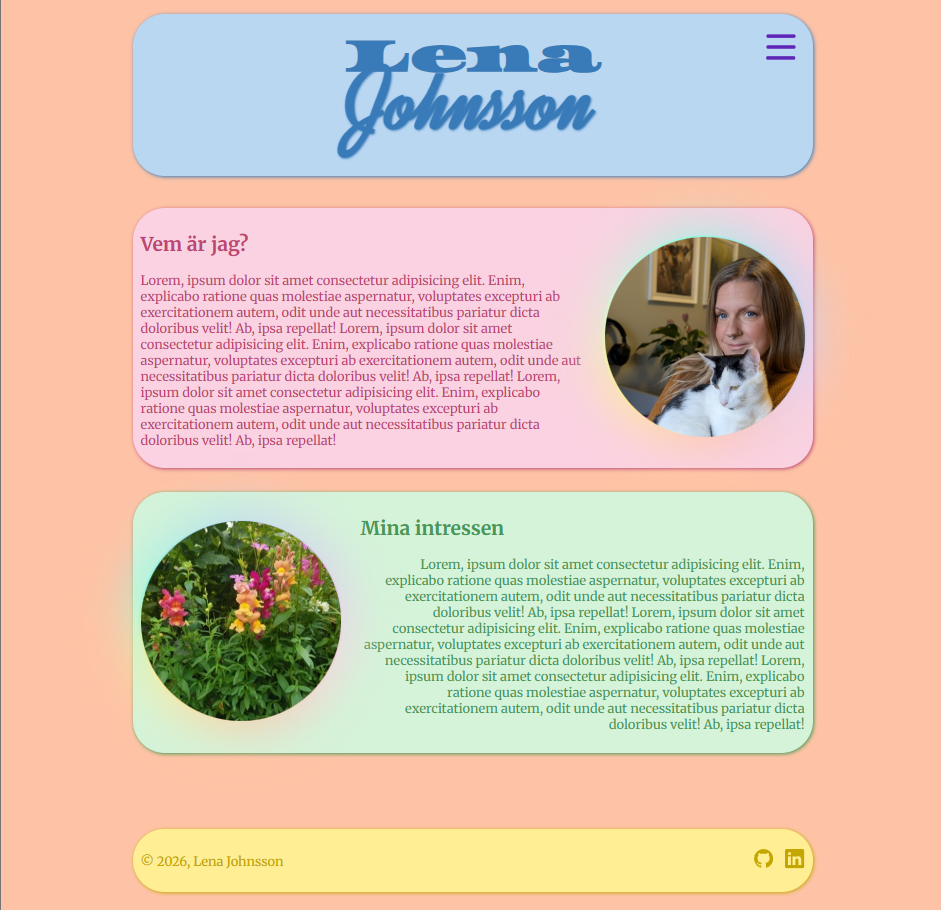
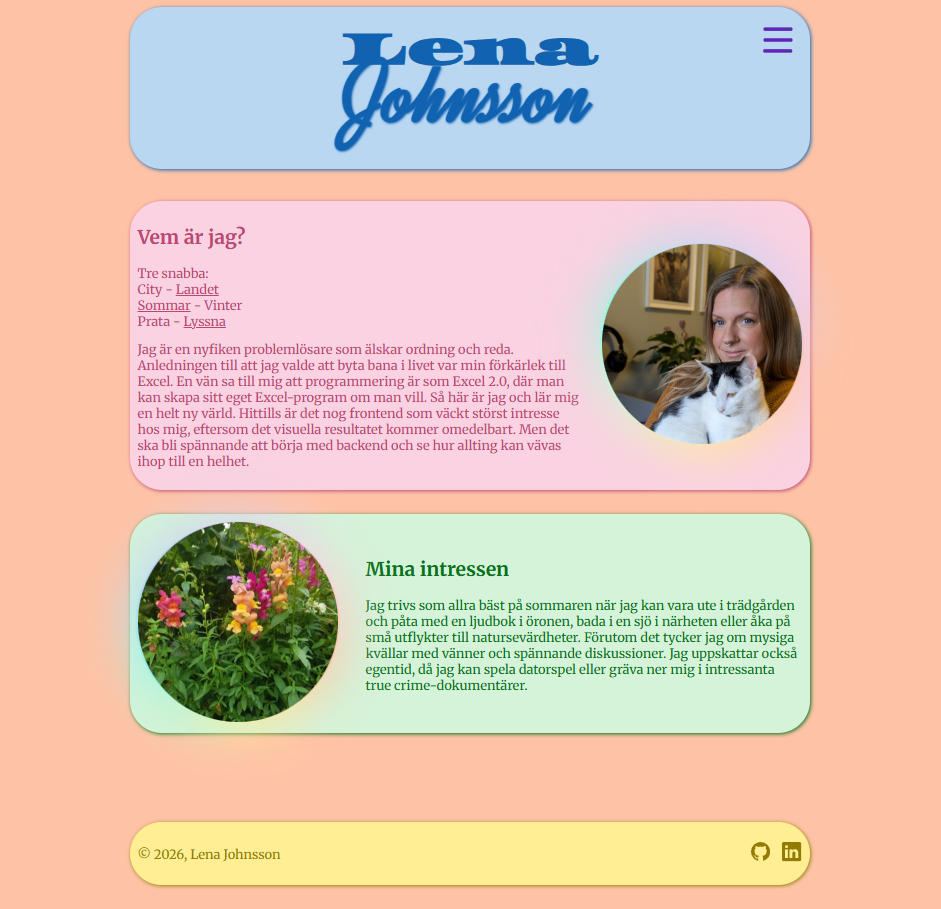
put in some text about me.

Changed region(s): [[0.1233, 0.0, 0.8937, 0.8317], [0.1233, 0.8933, 0.8629, 0.9857]]

diff --git a/index.html b/index.html
@@ -53,13 +53,17 @@
                 </div>
                 <div>
                   <p>
-                    Lorem, ipsum dolor sit amet consectetur adipisicing elit. Enim, explicabo ratione quas molestiae aspernatur,
-                    voluptates excepturi ab exercitationem autem, odit unde aut necessitatibus pariatur dicta doloribus velit! Ab,
-                    ipsa repellat! Lorem, ipsum dolor sit amet consectetur adipisicing elit. Enim, explicabo ratione quas
-                    molestiae aspernatur, voluptates excepturi ab exercitationem autem, odit unde aut necessitatibus pariatur
-                    dicta doloribus velit! Ab, ipsa repellat! Lorem, ipsum dolor sit amet consectetur adipisicing elit. Enim,
-                    explicabo ratione quas molestiae aspernatur, voluptates excepturi ab exercitationem autem, odit unde aut
-                    necessitatibus pariatur dicta doloribus velit! Ab, ipsa repellat!
+                    Tre snabba: <br />
+                    City - <span class="option">Landet</span><br />
+                    <span class="option">Sommar</span> - Vinter<br />
+                    Prata - <span class="option">Lyssna</span> <br />
+                  </p>
+                  <p>
+                    Jag är en nyfiken problemlösare som älskar ordning och reda. Anledningen till att jag valde att byta bana i
+                    livet var min förkärlek till Excel. En vän sa till mig att programmering är som Excel 2.0, där man kan skapa
+                    sitt eget Excel-program om man vill. Så här är jag och lär mig en helt ny värld. Hittills är det nog frontend
+                    som väckt störst intresse hos mig, eftersom det visuella resultatet kommer omedelbart. Men det ska bli
+                    spännande att börja med backend och se hur allting kan vävas ihop till en helhet.
                   </p>
                 </div>
               </div>
@@ -78,13 +82,10 @@
                 </div>
                 <div>
                   <p>
-                    Lorem, ipsum dolor sit amet consectetur adipisicing elit. Enim, explicabo ratione quas molestiae aspernatur,
-                    voluptates excepturi ab exercitationem autem, odit unde aut necessitatibus pariatur dicta doloribus velit! Ab,
-                    ipsa repellat! Lorem, ipsum dolor sit amet consectetur adipisicing elit. Enim, explicabo ratione quas
-                    molestiae aspernatur, voluptates excepturi ab exercitationem autem, odit unde aut necessitatibus pariatur
-                    dicta doloribus velit! Ab, ipsa repellat! Lorem, ipsum dolor sit amet consectetur adipisicing elit. Enim,
-                    explicabo ratione quas molestiae aspernatur, voluptates excepturi ab exercitationem autem, odit unde aut
-                    necessitatibus pariatur dicta doloribus velit! Ab, ipsa repellat!
+                    Jag trivs som allra bäst på sommaren när jag kan vara ute i trädgården och påta med en ljudbok i öronen, bada
+                    i en sjö i närheten eller åka på små utflykter till natursevärdheter. Förutom det tycker jag om mysiga kvällar
+                    med vänner och spännande diskussioner. Jag uppskattar också egentid, då jag kan spela datorspel eller gräva
+                    ner mig i intressanta true crime-dokumentärer.
                   </p>
                 </div>
               </div>

diff --git a/CSS/index.css b/CSS/index.css
@@ -50,6 +50,10 @@ img {
   isolation: isolate;
 }
 
+.option {
+  text-decoration: underline;
+}
+
 .div-img1 {
   margin-inline-start: 25px;
   position: relative;
@@ -112,14 +116,10 @@ img {
   box-shadow: var(--box-shadow) var(--dark-green);
   position: relative;
   isolation: isolate;
-
-  p {
-    text-align: right;
-  }
 }
 
 .div-img2 {
-  margin-inline-end: 25px;
+  margin-inline-end: 35px;
   position: relative;
   z-index: 2;
   width: fit-content;

diff --git a/CSS/portfolio.css b/CSS/portfolio.css
@@ -33,7 +33,7 @@ body {
 img {
   max-width: 200px;
   border-radius: 100%;
-  transition: 0.8s ease-out;
+  transition: 0.6s ease-out;
 }
 
 img:hover {
